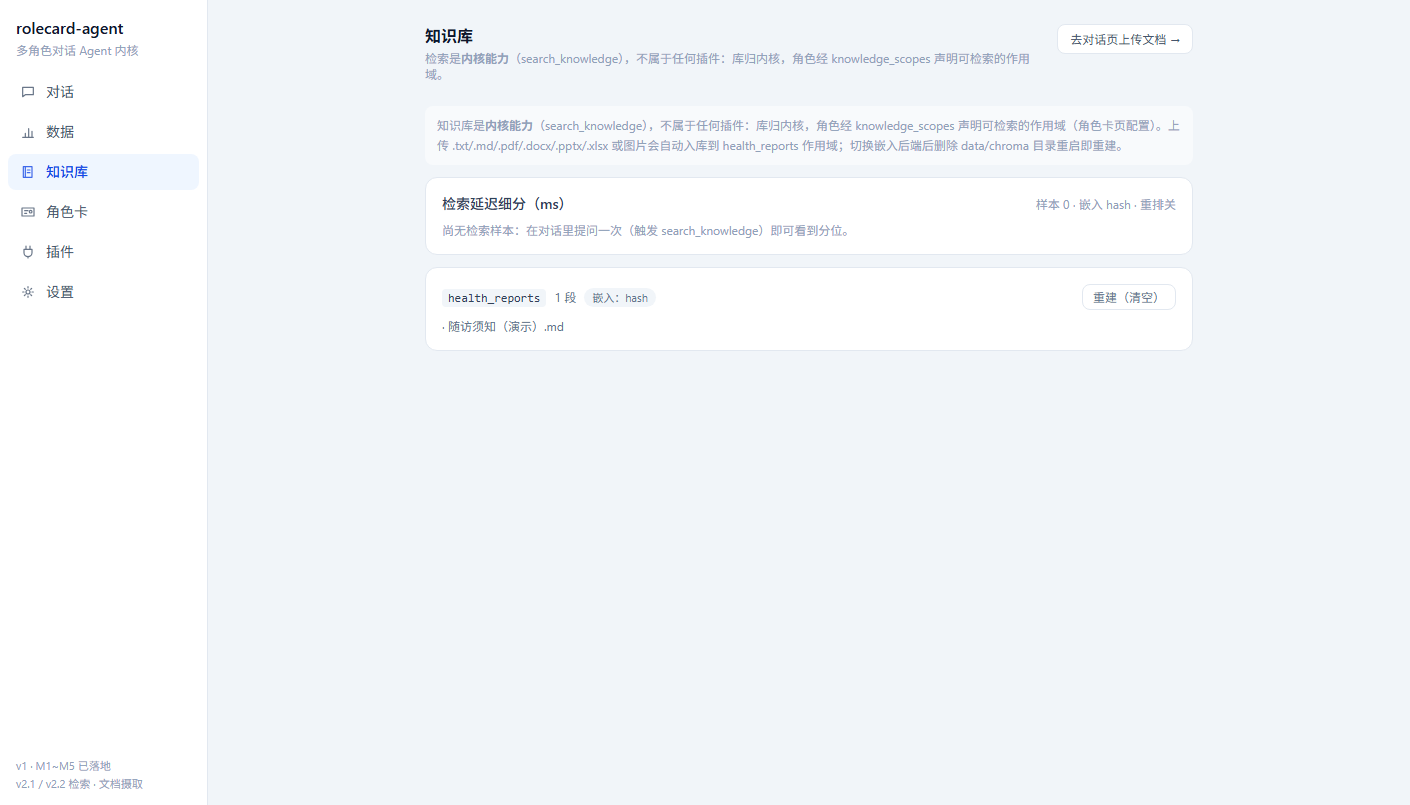
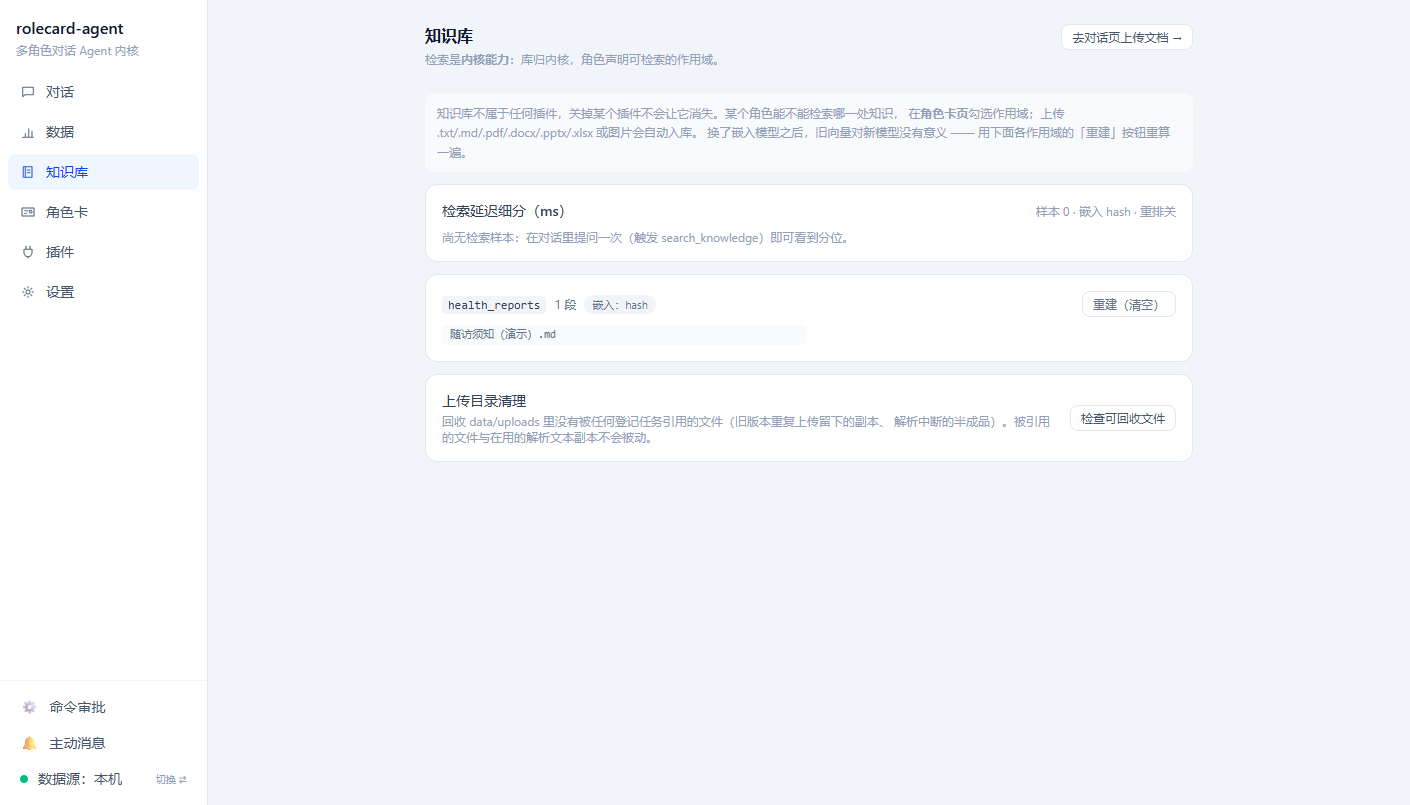
docs(截图): 六张 README 界面图按现代码重拍 —— B4 收口 + 删除两张孤儿图
8 张 console-*.png 全部停在 09-15（设置页子页签 3→7、对话页改版、灰字文案已删），
而门禁全是文本尺子、扫不到像素 —— 重拍是唯一修法。两处按你的拍板处置：
console-dark / console-mobile 全仓零引用，直接删除。

新增长期重拍工具（scripts/tools/render_readme_shots.py + js/render_readme_shots.js）：
自起隔离后端（现取端口、全新临时演示库 —— README 是门面，绝不带真库数据，
与取证探针「复制真库」刻意相反）、headless Chrome 按旧图同款 1410×805 逐页截图。
六张新图逐张目视检查后替换，README 标注拍摄日期与重拍工具。

diff --git a/scripts/js/render_readme_shots.js b/scripts/js/render_readme_shots.js
@@ -1,0 +1,98 @@
+#!/usr/bin/env node
+/**
+ * README 六页签截图：把控制台六个页签在真 Chrome 里各拍一张，落进 build/readme-shots/。
+ *
+ * 为什么要有它：`docs/assets/console-*.png` 是 README 首页那六张图，2026-09-15 拍的那版
+ * 已多处与代码脱节（设置页子页签 3→7、灰字文案已删），而门禁全是文本尺子、扫不到像素
+ * （B4）。重拍的取景口径要固定下来，否则下一次重拍又是一次性脚本。
+ *
+ * 用法（**先自己起一个隔离后端**，别打用户的 :8000；规矩同 `scripts/js/render_shots.js`）：
+ *   node scripts/js/render_readme_shots.js [base_url] [--out build/readme-shots]
+ *
+ * 浏览器/驱动缺任何一样：打印跳过并 exit 0（环境差异不该变红，与 ui_smoke 同一口径）。
+ */
+
+const { existsSync, mkdirSync } = require("fs");
+const path = require("path");
+
+const argv = process.argv.slice(2);
+const BASE = (argv[0] && !argv[0].startsWith("--") ? argv[0] : process.env.UI_SMOKE_BASE) ||
+  "http://127.0.0.1:8000";
+const outIdx = argv.indexOf("--out");
+const OUT = outIdx >= 0 && argv[outIdx + 1] ? argv[outIdx + 1] : "build/readme-shots";
+
+const BROWSERS = [
+  process.env.UI_SMOKE_BROWSER,
+  "C:\\Program Files\\Google\\Chrome\\Application\\chrome.exe",
+  "C:\\Program Files (x86)\\Google\\Chrome\\Application\\chrome.exe",
+  "C:\\Program Files (x86)\\Microsoft\\Edge\\Application\\msedge.exe",
+].filter(Boolean);
+
+function loadPlaywright() {
+  try {
+    return require("playwright-core");
+  } catch {
+    try {
+      return require(path.join(process.env.USERPROFILE || "", "uicheck", "node_modules", "playwright-core"));
+    } catch {
+      return null;
+    }
+  }
+}
+
+// 与 README 里两张图的行列一一对应；`console-*.png` 的文件名就是这个 key。
+const PAGES = [
+  ["chat", "对话页"],
+  ["data", "数据页"],
+  ["knowledge", "知识库页"],
+  ["roles", "角色卡页"],
+  ["plugins", "插件页"],
+  ["settings", "设置页"],
+];
+
+// 旧截图是 1410×805 —— 同一口径重拍，README 里两列布局才不会跳。
+const VIEWPORT = { width: 1410, height: 805 };
+
+(async () => {
+  const browserPath = BROWSERS.find((p) => existsSync(p));
+  const pw = loadPlaywright();
+  if (!pw || !browserPath) {
+    console.log("SKIP README 截图：缺 playwright-core 或本机浏览器（不算失败）");
+    process.exit(0);
+  }
+  const health = await fetch(`${BASE}/api/health`).then((r) => (r.ok ? r.json() : null)).catch(() => null);
+  if (!health) {
+    console.log(`SKIP README 截图：${BASE} 没在答 —— 先起一个隔离实例，别打用户的 :8000`);
+    process.exit(0);
+  }
+  mkdirSync(OUT, { recursive: true });
+
+  const browser = await pw.chromium.launch({ executablePath: browserPath, headless: true });
+  const page = await browser.newPage({ viewport: VIEWPORT });
+  let failed = 0;
+  try {
+    for (const [key, label] of PAGES) {
+      await page.goto(`${BASE}/#/${key}`, { waitUntil: "networkidle", timeout: 60000 });
+      // networkidle 只保证请求落定，不保证 React 已把数据画出来 —— 再等一拍首屏元素。
+      await page.waitForTimeout(1500);
+      const name = `console-${key}.png`;
+      try {
+        await page.screenshot({ path: path.join(OUT, name), fullPage: false });
+        console.log(`✅ ${name} — ${label}`);
+      } catch (e) {
+        failed += 1;
+        console.log(`❌ ${name}（${label}）截图失败：${e.message}`);
+      }
+    }
+  } catch (e) {
+    failed += 1;
+    console.log(`❌ 取景过程抛了：${e.message}`);
+  } finally {
+    await browser.close();
+  }
+  console.log(failed === 0 ? `图都在 ${OUT}/` : `${failed} 项没成`);
+  process.exit(failed === 0 ? 0 : 1);
+})().catch((e) => {
+  console.error("README 截图异常:", String(e).slice(0, 300));
+  process.exit(1);
+});

diff --git a/scripts/tools/render_readme_shots.py b/scripts/tools/render_readme_shots.py
@@ -1,0 +1,176 @@
+"""README 六页签截图的驱动：自起隔离后端 + 全新演示库 + headless Chrome。
+
+用法（仓库根）：
+
+    .venv\\Scripts\\python.exe scripts\\tools\\render_readme_shots.py
+
+四条红线按 `probe_chat_ui.py` 的规矩守着：不打 :8000、端口现取、**库是全新临时库**
+（README 是给外人看的门面，绝不能带真库数据 —— 与取证探针"复制真库"刻意相反）、
+只 terminate 自己 spawn 的那个 pid。
+
+演示数据复用 `seed_demo_data.py` 的那条线（虚构报告 + 随访须知文档 + 演示身份），
+但 chroma 落临时目录（那份脚本写死 `data/chroma`，这里不能跟着写仓库数据根）。
+跑完图在 build/readme-shots/，人工过目后自行替换 docs/assets/console-*.png。
+"""
+from __future__ import annotations
+
+import contextlib
+import json
+import os
+import socket
+import subprocess
+import sys
+import tempfile
+import time
+import urllib.request
+from pathlib import Path
+
+ROOT = Path(__file__).resolve().parents[2]
+sys.path.insert(0, str(ROOT / "src"))
+
+from rolecard_agent.base.identity import DEFAULT_TENANT_ID, DEFAULT_USER_ID  # noqa: E402
+from rolecard_agent.config import Settings  # noqa: E402
+from rolecard_agent.core.assembler import candidate_ids  # noqa: E402
+from rolecard_agent.core.models.services import ServiceEndpointService  # noqa: E402
+from rolecard_agent.domains.health.service import HealthQueryService  # noqa: E402
+from rolecard_agent.rag.retriever import KnowledgeBase, make_embedder  # noqa: E402
+from rolecard_agent.storage.db import bootstrap, connect  # noqa: E402
+
+
+def _seed_demo(sqlite_path: Path, chroma_path: Path) -> None:
+    """演示数据 = `seed_demo_data.py` 的同一份口径，只是 chroma 指进临时目录。"""
+    os.environ["SQLITE_PATH"] = str(sqlite_path)
+    settings = Settings.from_env()
+    conn = connect(sqlite_path)
+    bootstrap(conn, enabled_domains=("health",))
+    ServiceEndpointService(conn, owner=DEFAULT_USER_ID).seed_once()
+    conn.execute(
+        "INSERT OR IGNORE INTO tenant (tenant_id, display_name) VALUES (?, '本地演示')",
+        (DEFAULT_TENANT_ID,),
+    )
+    conn.execute(
+        "INSERT OR IGNORE INTO app_user (user_id, tenant_id, display_name)"
+        " VALUES (?, ?, '本地用户')",
+        (DEFAULT_USER_ID, DEFAULT_TENANT_ID),
+    )
+    conn.commit()
+
+    services = ServiceEndpointService(conn, owner=DEFAULT_USER_ID)
+    kb = KnowledgeBase(
+        chroma_path,
+        make_embedder(
+            settings,
+            order=candidate_ids(services, "embedding"),
+            endpoints=services.endpoint_map("embedding"),
+        ),
+    )
+    doc = (
+        "胆囊结石随访须知（虚构演示文档）：\n\n"
+        "胆囊结石直径小于 10 mm 且无症状者，建议每 6 到 12 个月复查一次腹部超声。"
+        "复查应固定同一家医疗机构，便于前后对比。\n\n"
+        "出现持续性腹痛、发热或皮肤巩膜黄染时，提示可能出现并发症，应及时就医。\n\n"
+        "本须知为演示数据，不构成任何医疗建议。"
+    )
+    kb.index("health_reports", "随访须知（演示）.md", doc)
+
+    query = HealthQueryService(conn)
+    if not query.list_reports(DEFAULT_USER_ID):
+        query.create_report(
+            user_id=DEFAULT_USER_ID, report_type="超声", check_time="2025-05-01",
+            institution="市第一医院", note="年度体检",
+            indices=[{
+                "index_name": "结石直径", "index_value": 5.0, "unit": "mm",
+                "ref_range": "0-5", "is_verified": True, "raw_text": "胆囊结石一枚，直径约5mm",
+            }],
+        )
+        query.create_report(
+            user_id=DEFAULT_USER_ID, report_type="超声", check_time="2026-03-12",
+            institution="市第一医院", note="复查",
+            indices=[{
+                "index_name": "结石直径", "index_value": 6.0, "unit": "mm",
+                "ref_range": "0-5", "is_verified": False, "raw_text": "结石较前增大，约6mm",
+            }],
+        )
+    conn.close()
+
+
+def main() -> int:
+    # 与 run_api.force_utf8_stdio 同一条纪律：GBK 控制台打不下 JS 驱动的 ✅（U+2705），
+    # 不修会在 print 那行 UnicodeEncodeError —— 图其实已经拍完了。
+    for stream in (sys.stdout, sys.stderr):
+        if hasattr(stream, "reconfigure"):
+            with contextlib.suppress(Exception):
+                stream.reconfigure(encoding="utf-8", errors="replace")
+
+    with socket.socket() as probe:
+        probe.bind(("127.0.0.1", 0))
+        port = probe.getsockname()[1]
+
+    workdir = Path(tempfile.mkdtemp(prefix="readme_shots_"))
+    sqlite_path = workdir / "app.db"
+    _seed_demo(sqlite_path, workdir / "chroma")
+
+    env = {
+        **os.environ,
+        "PYTHONPATH": "src",
+        "PYTHONIOENCODING": "utf-8",
+        "SQLITE_PATH": str(sqlite_path),
+        "CHROMA_PATH": str(workdir / "chroma"),
+        "UPLOAD_DIR": str(workdir / "uploads"),
+        "WORKSPACE_DIR": str(workdir / "workspace"),
+        "RUN_API_PORT": str(port),
+        "MEMORY_EXTRACT_AUTO": "0",
+        "MODEL_PIN_ON_STARTUP": "0",
+        "SILICONFLOW_API_KEY": "",  # 演示库不配 key：页面照常渲染，不外呼
+    }
+    log = workdir / "backend.log"
+    with log.open("wb") as fh:
+        server = subprocess.Popen(  # noqa: S603
+            [sys.executable, str(ROOT / "scripts" / "run_api.py")],
+            cwd=str(ROOT), env=env, stdout=fh, stderr=subprocess.STDOUT,
+        )
+    base = f"http://127.0.0.1:{port}"
+    rc = 1
+    try:
+        deadline = time.time() + 90
+        while time.time() < deadline:
+            if server.poll() is not None:
+                tail = log.read_text("utf-8", "replace")[-2000:]
+                print(f"后端起不来（退出码 {server.returncode}），日志尾部：\n{tail}")
+                return 1
+            with contextlib.suppress(Exception):
+                if urllib.request.urlopen(f"{base}/api/health", timeout=3).status == 200:  # noqa: S310
+                    break
+            time.sleep(1.0)
+        else:
+            print("后端 90s 内没就绪")
+            return 1
+
+        # 侧栏不能是空的：建两条演示会话（不发消息 —— 没配模型，空态引导卡也是真实界面）。
+        for _ in range(2):
+            req = urllib.request.Request(  # noqa: S310
+                f"{base}/api/session",
+                data=json.dumps({}).encode(),
+                headers={"Content-Type": "application/json"},
+                method="POST",
+            )
+            with contextlib.suppress(Exception):
+                urllib.request.urlopen(req, timeout=10)  # noqa: S310
+
+        proc = subprocess.run(  # noqa: S603
+            ["node", str(ROOT / "scripts" / "js" / "render_readme_shots.js"), base],
+            capture_output=True, text=True, timeout=300, cwd=str(ROOT),
+            encoding="utf-8", errors="replace",
+        )
+        print((proc.stdout or "") + (proc.stderr or ""))
+        rc = proc.returncode
+    finally:
+        server.terminate()
+        with contextlib.suppress(Exception):
+            server.wait(timeout=20)
+        print(f"\n（读数出处：临时库 {sqlite_path} / 端口 {port}）")
+    return rc
+
+
+if __name__ == "__main__":
+    sys.exit(main())

diff --git a/scripts/README.md b/scripts/README.md
@@ -50,6 +50,7 @@
 | `scripts/tools/persona_ab.py` | 活人感 A/B（同模型同历史，只差一个改动） | 2026-09-25 主动消息设计稿 | 是 |
 | `scripts/tools/run_eval.py` | 评测跑批（可复现通过率基线 + 数据引用正确率） | P3 出口条件（2026-09-14 首跑） | 是 |
 | `scripts/tools/seed_demo_data.py` | 给演示库注入虚构演示数据 | M4（2026-09 上旬） | 是 |
+| `scripts/tools/render_readme_shots.py` | README 六页签截图驱动（自起隔离后端 + 全新演示库 + headless Chrome） | 2026-10-12 截图重拍（B4） | 是 |
 | `scripts/tools/reachout_outcomes.py` | 主动开口"结局"度量（接话率/连击/看了不接） | 2026-09-26 轮（结局可量化那格） | 是 |
 
 ## forensics/（取证件：一次性探针与现场取证）
@@ -81,4 +82,5 @@
 | `scripts/js/shell_quit_smoke.js` | 桌面壳关窗收起的真机冒烟 | 2026-09-26 壳选型轮 | 是 |
 | `scripts/js/probe_chat_ui.js` | headless Chrome 交互步骤（probe_chat_ui.py 的驱动） | 2026-10-01 对话页拆分轮 | 留档 |
 | `scripts/js/render_shots.js` | 对隔离实例拍五张界面截图 | 2026-09-26 审计轮 | 留档 |
+| `scripts/js/render_readme_shots.js` | 控制台六页签逐页截图（render_readme_shots.py 的驱动） | 2026-10-12 截图重拍（B4） | 是 |
 | `scripts/js/ui_data_source_switch.js` | 数据源切换的界面步骤驱动 | M5（2026-09 中旬） | 留档 |

diff --git a/README.md b/README.md
@@ -55,6 +55,7 @@ copy .env.example .env
 
 控制台六个页签 —— 刻意把最易混淆的三件事分开：
 **数据**（领域数据，随域归属）· **知识库**（RAG 检索，内核能力）· **插件**（能力开关）。
+（截图拍于 2026-10-12，重拍工具：`scripts/tools/render_readme_shots.py`）
 
 | 对话 | 数据（可补录） | 知识库（RAG + 检索延迟） |
 | --- | --- | --- |
